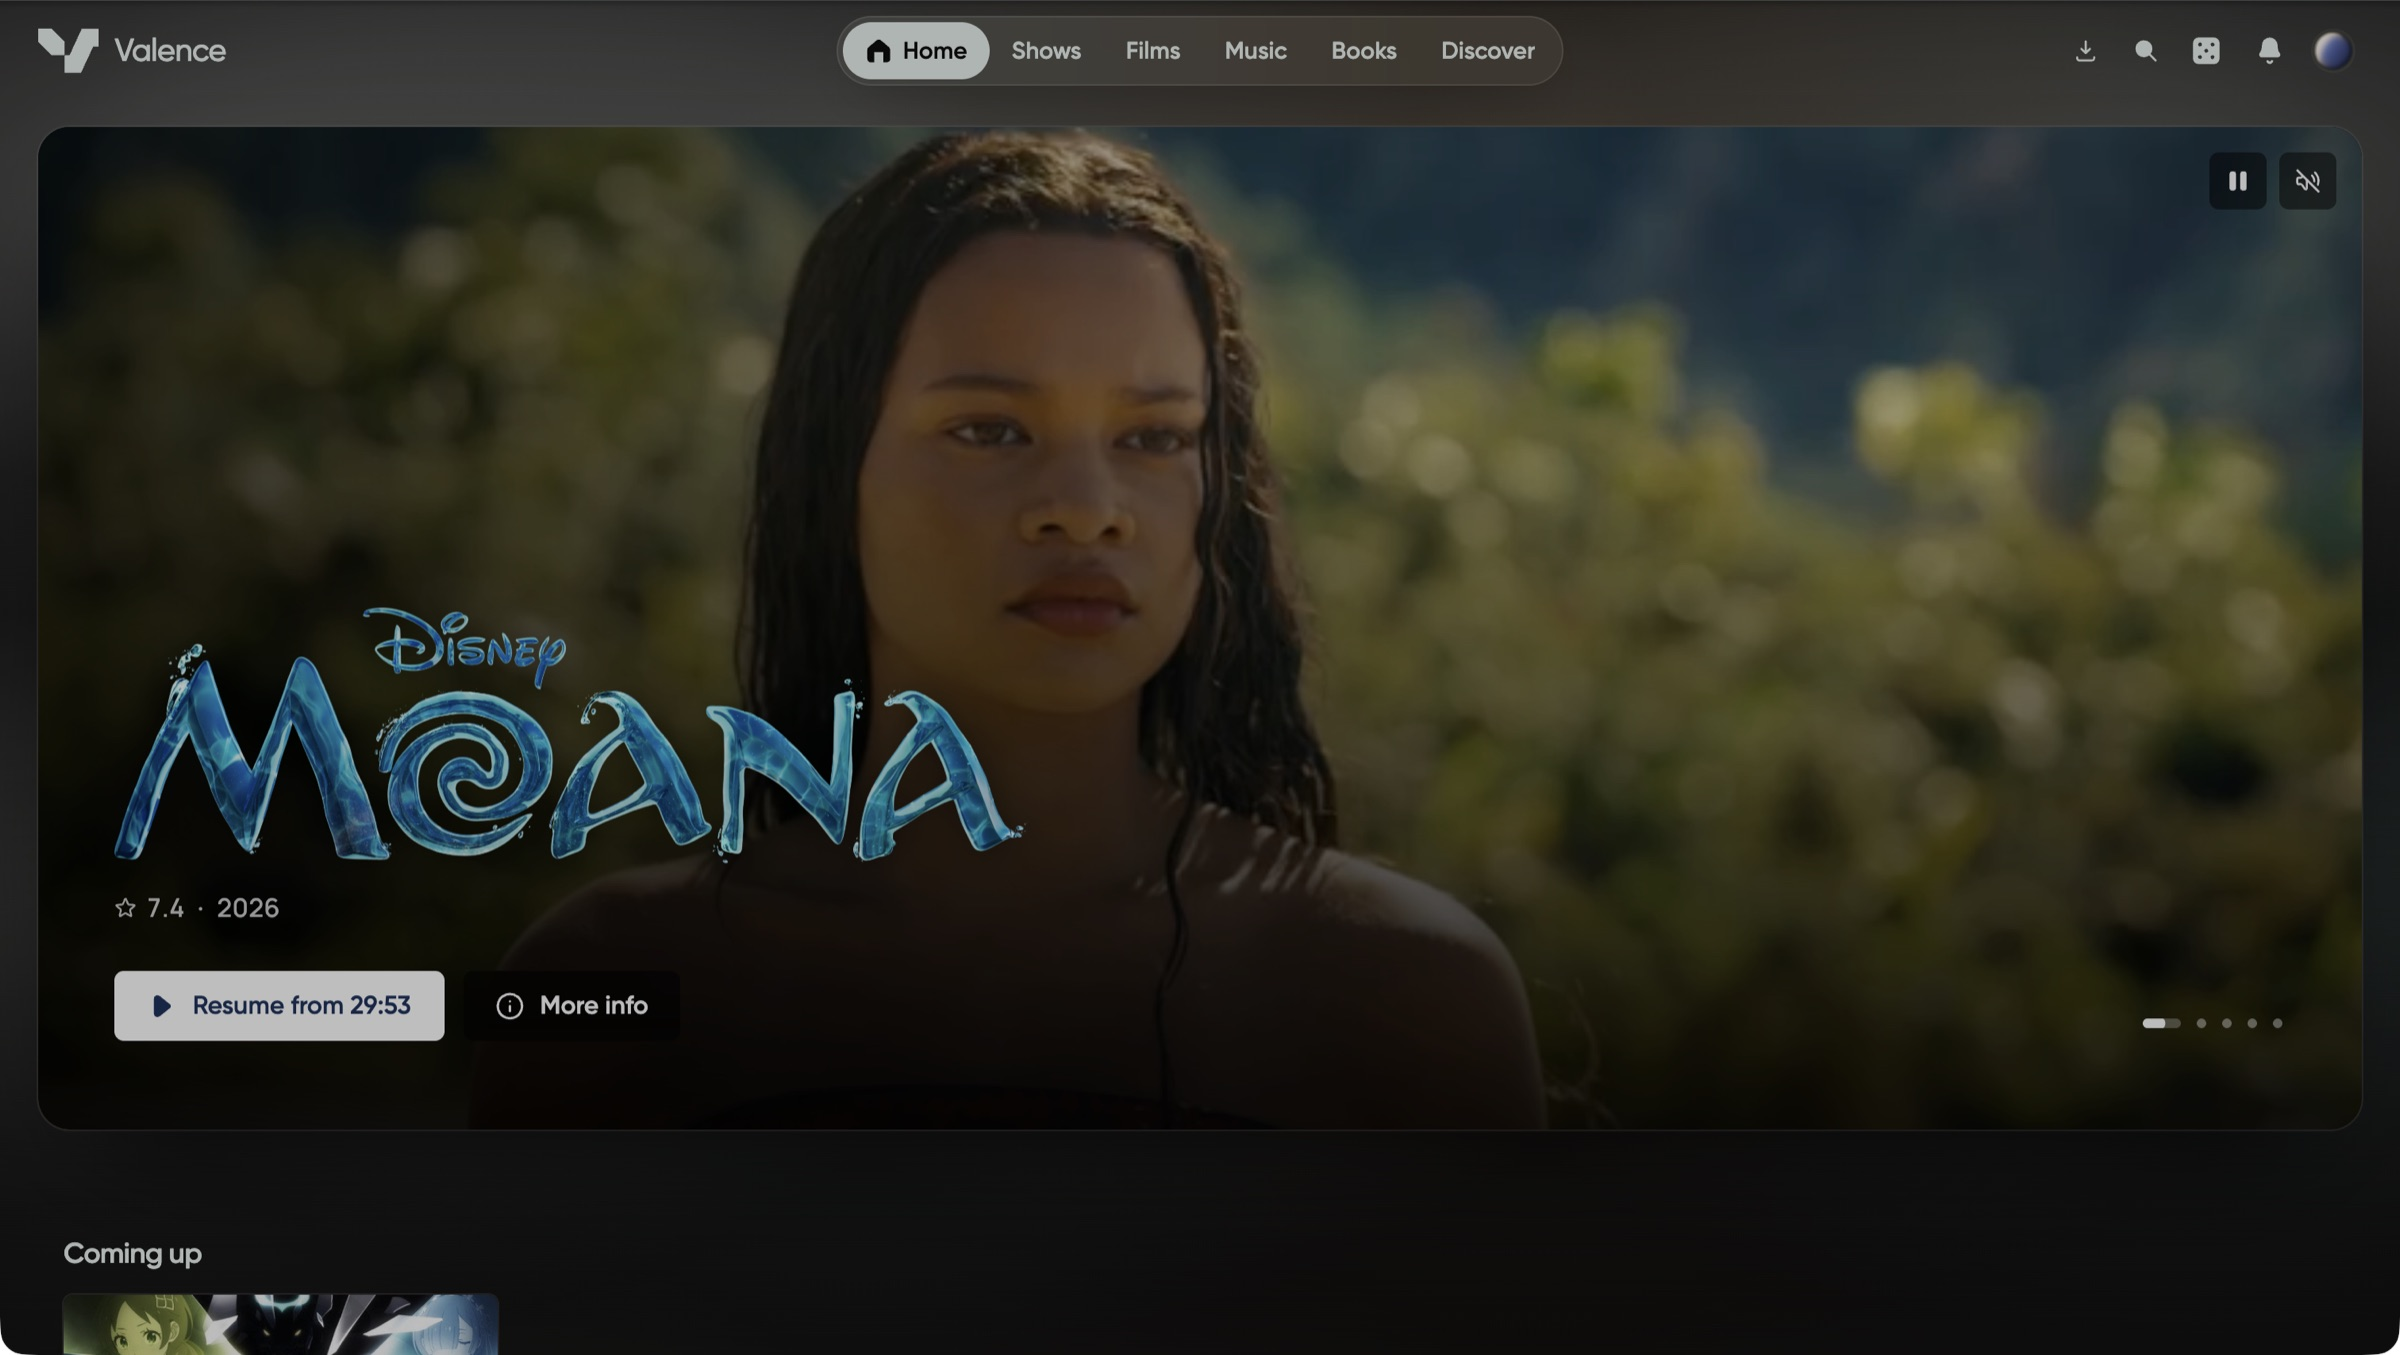
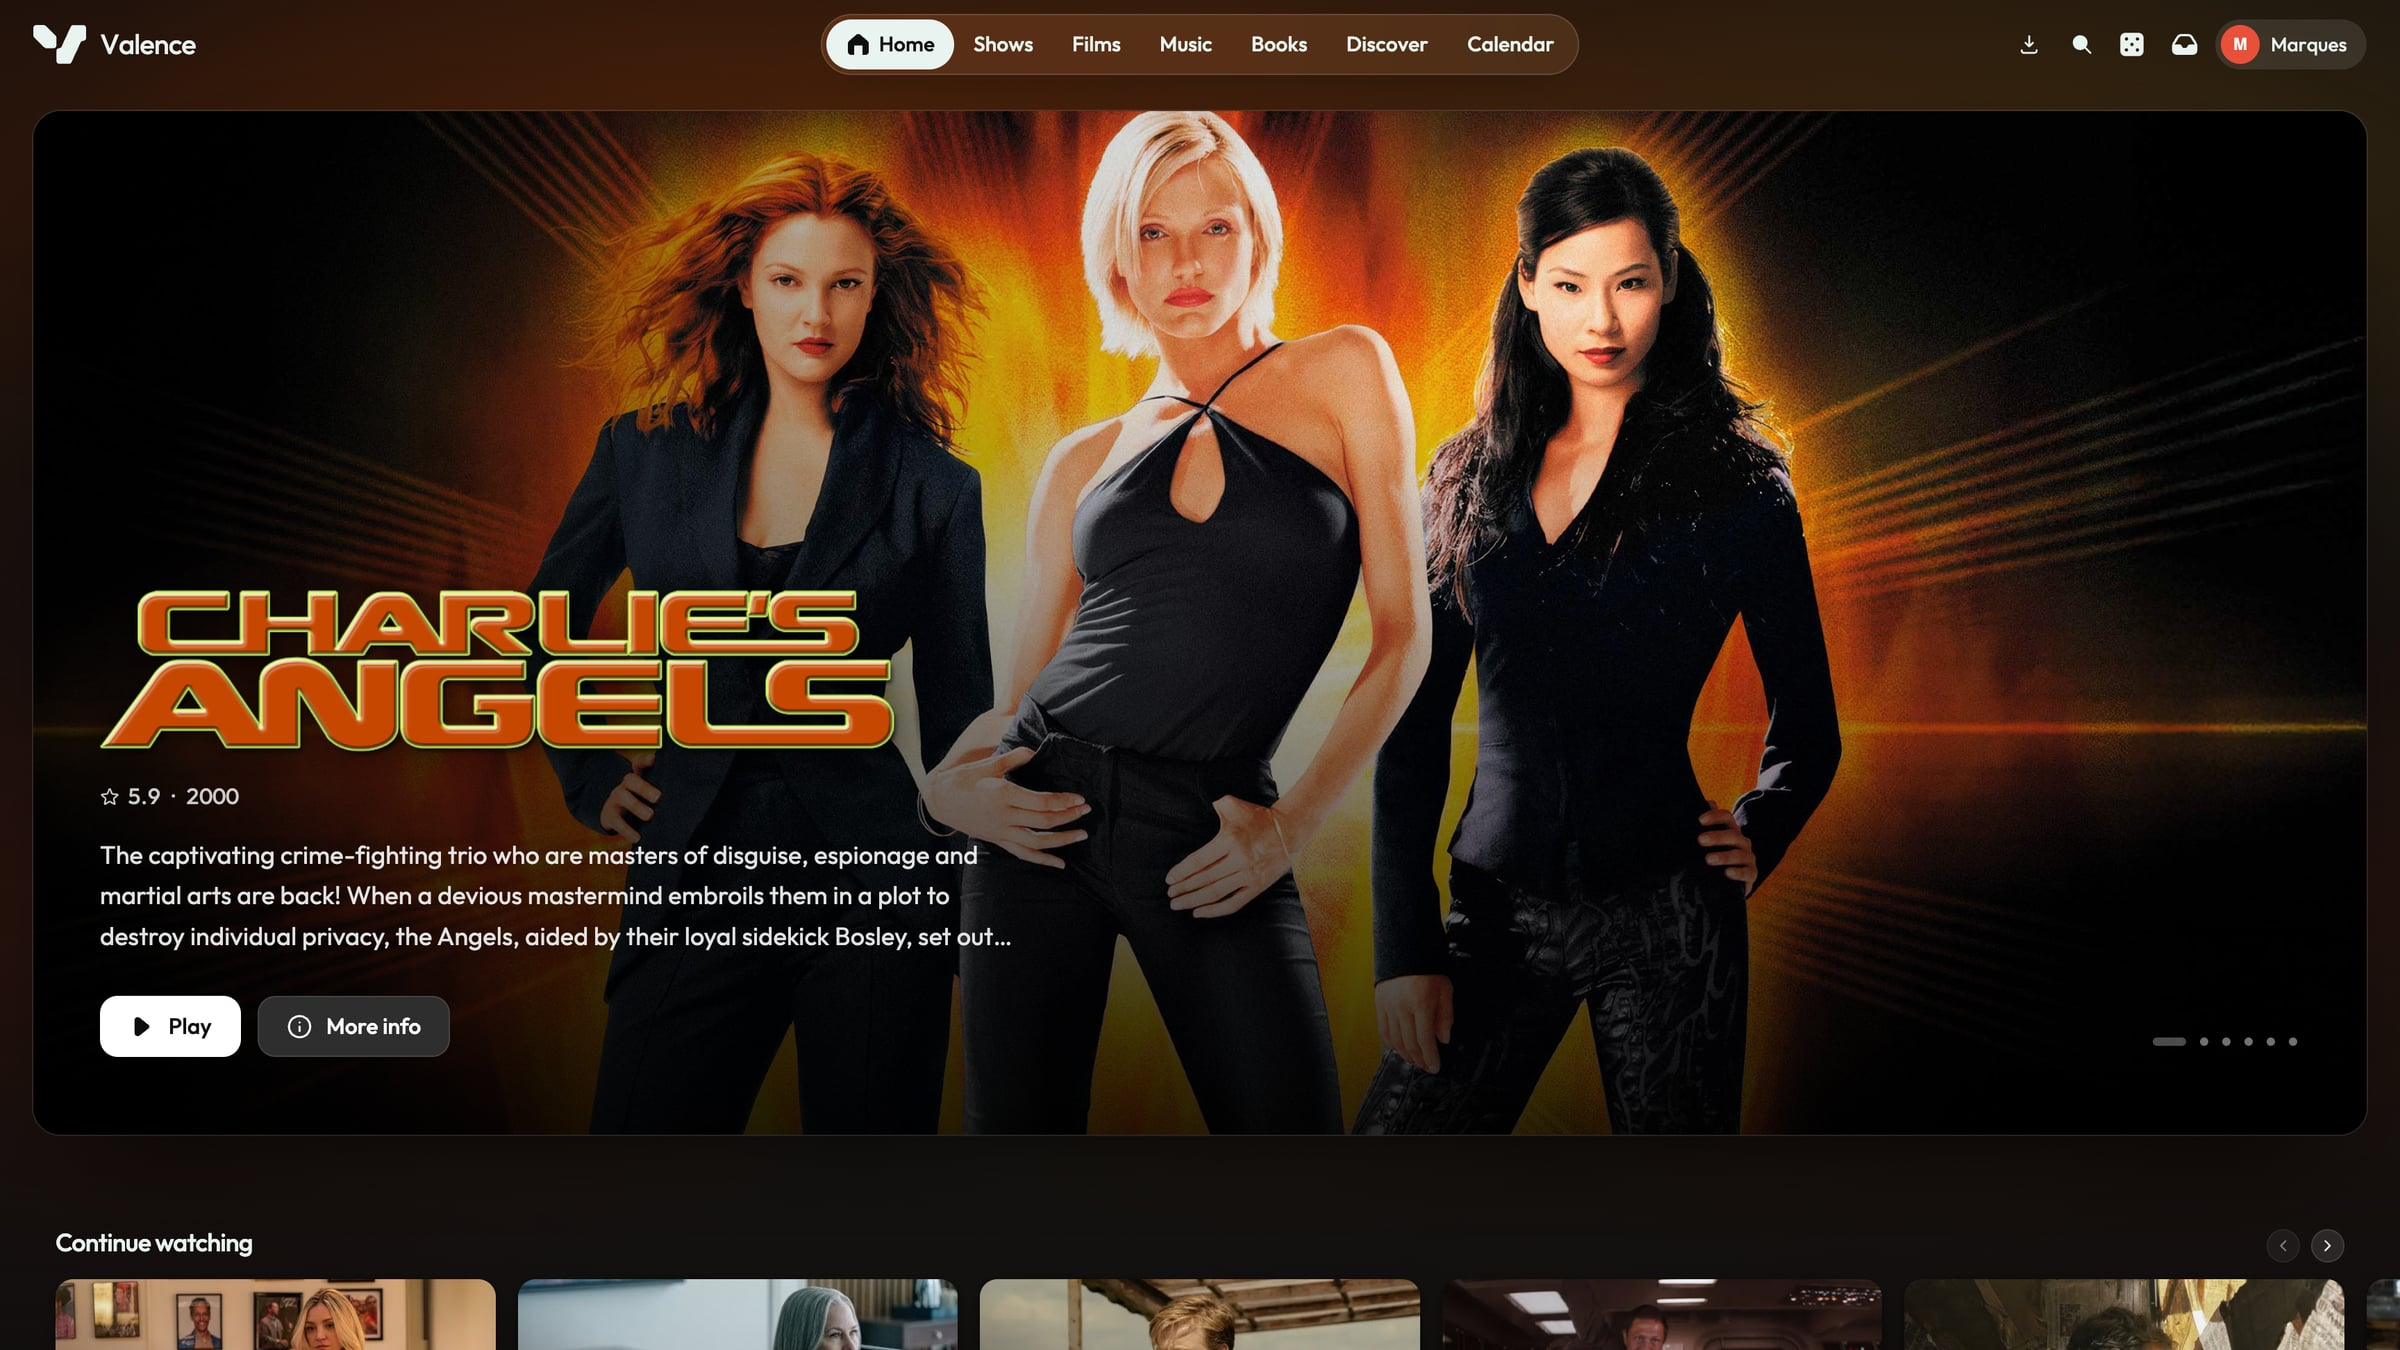
Show every answer on the statistics site, and give a native install its version (#756)
* fix(metrics): show every answer under its own name rather than folding rare ones into Other

* fix(server): a checkout run directly knows its release, rather than calling itself 0.0.0

* docs(metrics): say plainly that a rare answer shows with a count of one

* docs: show the landing page's home screen at the top of the readme

diff --git a/apps/metrics/src/stats/shareOf.ts b/apps/metrics/src/stats/shareOf.ts
@@ -1,8 +1,6 @@
 import type { ShareRow } from './MetricsStats';
 
-const SMALLEST_GROUP = 3;
-
-const OTHER = 'other';
+const FEWEST_SERVERS_SHOWN = 3;
 
 type ShareOptions = {
   counts: ReadonlyMap<string, number>;
@@ -13,46 +11,27 @@ type ShareOptions = {
 };
 
 /**
- * Turns counts of installs into shares of all of them, folding every group smaller than three
- * installs, and any past the limit, into one "Other" row so that no install can be picked out.
+ * Turns counts of installs into shares of all of them, each answer under its own name, keeping only
+ * the biggest where there is a limit.
  *
  * @param options - The counts, how many installs there are in all, how to name a group, the order
  *   to list them in where they have a natural one rather than biggest first, and how many to list.
- * @returns The rows, with "Other" last.
+ * @returns The rows.
  */
-const shareOf = ({ counts, total, labelOf, order, limit }: ShareOptions): ShareRow[] => {
-  const shown: [string, number][] = [];
-  let folded = 0;
-
-  const ranked = [...counts.entries()]
+const shareOf = ({ counts, total, labelOf, order, limit }: ShareOptions): ShareRow[] =>
+  [...counts.entries()]
     .filter(([, installs]) => installs > 0)
     .sort(([aId, a], [bId, b]) =>
       order === undefined
         ? b - a || aId.localeCompare(bId)
         : order.indexOf(aId) - order.indexOf(bId),
-    );
+    )
+    .slice(0, limit ?? Infinity)
+    .map(([id, installs]) => ({
+      id,
+      label: labelOf(id),
+      installs,
+      share: total === 0 ? 0 : installs / total,
+    }));
 
-  for (const [id, installs] of ranked) {
-    if (id === OTHER || installs < SMALLEST_GROUP || shown.length >= (limit ?? Infinity)) {
-      folded += installs;
-    } else {
-      shown.push([id, installs]);
-    }
-  }
-
-  const rows = shown.map(([id, installs]) => ({
-    id,
-    label: labelOf(id),
-    installs,
-    share: total === 0 ? 0 : installs / total,
-  }));
-
-  return folded === 0
-    ? rows
-    : [
-        ...rows,
-        { id: OTHER, label: 'Other', installs: folded, share: total === 0 ? 0 : folded / total },
-      ];
-};
-
-export { SMALLEST_GROUP, shareOf };
+export { FEWEST_SERVERS_SHOWN, shareOf };

diff --git a/apps/server/src/Main.ts b/apps/server/src/Main.ts
@@ -179,6 +179,7 @@ import {
   series,
 } from '#dialect/Schema';
 import { readEnv } from '@ValenceServer/env/Env';
+import { readServerVersion } from '@ValenceServer/env/readServerVersion';
 import { readImportedAccounts } from '@ValenceServer/arrImport/readImportedAccounts';
 import { createDatabaseSettingsStore } from '@ValenceServer/settings/createDatabaseSettingsStore';
 import { createDatabaseLinkStore } from '@ValenceServer/linking/createDatabaseLinkStore';
@@ -536,6 +537,15 @@ const MonitorResourceSampleSchema = z.object({
   }),
 });
 const env = readEnv(process.env);
+
+const SERVER_VERSION = readServerVersion({
+  fromEnvironment: env.VALENCE_VERSION,
+  readManifest: () =>
+    readFileSync(
+      join(import.meta.dirname, '..', '..', '..', '.release-please-manifest.json'),
+      'utf8',
+    ),
+});
 
 checkDialect(env.DATABASE_URL, DIALECT);
 
@@ -1339,7 +1349,7 @@ const telemetry = createTelemetryService({
   settings,
   isHeldOffByEnvironment: isTelemetryHeldOff(env),
   address: env.VALENCE_TELEMETRY_URL,
-  version: env.VALENCE_VERSION,
+  version: SERVER_VERSION,
   host: {
     installMethod: () =>
       detectInstallMethod({
@@ -1371,7 +1381,7 @@ const musicArtwork = createMusicArtwork(musicArtworkDir);
 const AUDIO_DB_FREE_KEY = '123';
 
 const musicWeb = createMusicWeb({
-  userAgent: `Valence/${env.VALENCE_VERSION} ( https://github.com/ValenceOSS/Valence )`,
+  userAgent: `Valence/${SERVER_VERSION} ( https://github.com/ValenceOSS/Valence )`,
   spacingMs: {
     'musicbrainz.org': 1100,
     'coverartarchive.org': 250,
@@ -4910,7 +4920,7 @@ const app = createApp({
   auth,
   settings,
   uploadSessions: createDatabaseUploadSessions(db),
-  version: env.VALENCE_VERSION,
+  version: SERVER_VERSION,
   commit: env.VALENCE_COMMIT,
   demoAccounts: env.DEMO_ACCOUNTS,
   trustedOrigins: trustedOriginsFor({
@@ -4982,7 +4992,7 @@ const app = createApp({
   backups: backupService,
   readLibraryHealth: createLibraryHealthReader(db),
   updates: createUpdateChecker({
-    current: env.VALENCE_VERSION,
+    current: SERVER_VERSION,
     isEnabled: env.CHECK_FOR_UPDATES,
   }),
   webhooks: webhookSubscriptions,

diff --git a/apps/metrics/src/components/AboutPage/AboutPage.tsx b/apps/metrics/src/components/AboutPage/AboutPage.tsx
@@ -59,13 +59,14 @@ const AboutPage = () => (
           </ul>
         </PanelCard>
 
-        <PanelCard title="How a single server stays hidden">
+        <PanelCard title="What is shown">
           <div className="flex flex-col gap-3 text-sm text-text">
             <p>
-              Only totals are ever shown, here or through the JSON the page is drawn from. Any
-              answer fewer than three servers give is folded into “Other”, so an unusual graphics
-              card or a version nobody else runs cannot point to one server. Until three servers
-              have reported, nothing but the count is shown at all.
+              Only totals are ever shown, here or through the JSON the page is drawn from. Every
+              answer is listed under its own name, so a graphics card or a version only one server
+              has shows with a count of one. A report holds nothing that says who runs a server or
+              where it is, so that count cannot be traced back to anybody. Until three servers have
+              reported, nothing but the count is shown at all.
             </p>
             <p>
               A server counts as active while it has reported in the last 30 days. Its latest report

diff --git a/apps/metrics/src/stats/aggregateInstalls.ts b/apps/metrics/src/stats/aggregateInstalls.ts
@@ -8,7 +8,7 @@ import { CORE_BUCKETS, coreBucketOf } from './coreBucketOf';
 import { countsOf } from './countsOf';
 import { cpuVendorOf } from './cpuVendorOf';
 import { labelOf } from './labelOf';
-import { SMALLEST_GROUP, shareOf } from './shareOf';
+import { FEWEST_SERVERS_SHOWN, shareOf } from './shareOf';
 import type { InstallSummary } from './InstallSummary';
 import type { DayCount, LibraryKind, MetricsStats, ShareRow } from './MetricsStats';
 import type { LabelKind } from './labelOf';
@@ -23,14 +23,14 @@ type Aggregated = {
 
 /**
  * Sums up every install that reported in the last thirty days into the figures the page shows,
- * with nothing in any group smaller than three installs.
+ * shown only once at least three servers have reported.
  *
  * @param aggregated - The installs, the trend of how many there were, and when this is.
  * @returns The figures.
  */
 const aggregateInstalls = ({ installs, trend, now }: Aggregated): MetricsStats => {
   const total = installs.length;
-  const isEnoughToShow = total >= SMALLEST_GROUP;
+  const isEnoughToShow = total >= FEWEST_SERVERS_SHOWN;
 
   const share = (
     kind: LabelKind | null,

diff --git a/apps/server/src/env/readServerVersion.test.ts b/apps/server/src/env/readServerVersion.test.ts
@@ -1,0 +1,32 @@
+import { describe, expect, it } from 'vitest';
+import { readServerVersion } from './readServerVersion';
+
+const MANIFEST = () => '{".":"1.7.0"}';
+
+describe('readServerVersion', () => {
+  it('takes the version the image was built with', () => {
+    expect(
+      readServerVersion({ fromEnvironment: '1.8.0-dev.9790d38', readManifest: MANIFEST }),
+    ).toBe('1.8.0-dev.9790d38');
+  });
+
+  it('reads the release manifest where nothing set the version', () => {
+    expect(readServerVersion({ fromEnvironment: '0.0.0', readManifest: MANIFEST })).toBe('1.7.0');
+    expect(readServerVersion({ fromEnvironment: '', readManifest: MANIFEST })).toBe('1.7.0');
+  });
+
+  it('says 0.0.0 where there is no manifest to read', () => {
+    expect(
+      readServerVersion({
+        fromEnvironment: '0.0.0',
+        readManifest: () => {
+          throw new Error('ENOENT');
+        },
+      }),
+    ).toBe('0.0.0');
+  });
+
+  it('says 0.0.0 where the manifest names no release', () => {
+    expect(readServerVersion({ fromEnvironment: '0.0.0', readManifest: () => '{}' })).toBe('0.0.0');
+  });
+});

diff --git a/apps/metrics/src/stats/shareOf.test.ts b/apps/metrics/src/stats/shareOf.test.ts
@@ -20,21 +20,19 @@ describe('shareOf', () => {
     ]);
   });
 
-  it('folds every group of fewer than three installs into Other, last', () => {
+  it('lists a group of one under its own name', () => {
     expect(
       shareOf({
         counts: new Map([
           ['rare', 1],
           ['common', 6],
-          ['other', 1],
-          ['scarce', 2],
         ]),
-        total: 10,
+        total: 7,
         labelOf,
-      }),
+      }).map(({ id, installs }) => [id, installs]),
     ).toStrictEqual([
-      { id: 'common', label: 'COMMON', installs: 6, share: 0.6 },
-      { id: 'other', label: 'Other', installs: 4, share: 0.4 },
+      ['common', 6],
+      ['rare', 1],
     ]);
   });
 
@@ -52,7 +50,7 @@ describe('shareOf', () => {
     ).toStrictEqual(['small', 'large']);
   });
 
-  it('folds whatever is past the limit into Other', () => {
+  it('keeps only the biggest where there is a limit', () => {
     expect(
       shareOf({
         counts: new Map([
@@ -67,7 +65,6 @@ describe('shareOf', () => {
     ).toStrictEqual([
       ['a', 5],
       ['b', 4],
-      ['other', 3],
     ]);
   });
 

diff --git a/apps/metrics/src/stats/aggregateInstalls.test.ts b/apps/metrics/src/stats/aggregateInstalls.test.ts
@@ -77,7 +77,8 @@ describe('aggregateInstalls', () => {
     expect(stats.memory[0]?.label).toBe('16 to 32 GB');
     expect(stats.gpuVendors).toStrictEqual([
       { id: 'nvidia', label: 'NVIDIA', installs: 3, share: 0.75 },
-      { id: 'other', label: 'Other', installs: 2, share: 0.5 },
+      { id: 'intel', label: 'Intel', installs: 1, share: 0.25 },
+      { id: 'none', label: 'No graphics found', installs: 1, share: 0.25 },
     ]);
     expect(stats.gpuModels).toStrictEqual([
       { id: 'NVIDIA GeForce RTX 3060', label: 'NVIDIA GeForce RTX 3060', installs: 3, share: 0.75 },
@@ -91,7 +92,7 @@ describe('aggregateInstalls', () => {
     expect(stats.clients).toStrictEqual([
       { id: 'browser', label: 'A web browser', installs: 3, share: 0.75 },
       { id: 'tv', label: 'A television', installs: 3, share: 0.75 },
-      { id: 'other', label: 'Other', installs: 1, share: 0.25 },
+      { id: 'phone', label: 'A phone', installs: 1, share: 0.25 },
     ]);
     expect(stats.library.films[0]?.label).toBe('100 to 999');
     expect(stats.library.episodes[0]?.label).toBe('1,000 to 9,999');

diff --git a/apps/server/src/env/readServerVersion.ts b/apps/server/src/env/readServerVersion.ts
@@ -1,0 +1,33 @@
+import { z } from 'zod';
+
+const UNKNOWN_VERSION = '0.0.0';
+
+const ManifestSchema = z.object({ '.': z.string().min(1) });
+
+type VersionSources = {
+  fromEnvironment: string;
+  readManifest: () => string;
+};
+
+/**
+ * Says which version this server is: the one its image was built with, or, for a checkout run
+ * directly where nothing set it, the release the checkout's release manifest names.
+ *
+ * @param sources - The version the environment holds, and how to read the release manifest.
+ * @returns The version, or 0.0.0 where neither says.
+ */
+const readServerVersion = ({ fromEnvironment, readManifest }: VersionSources): string => {
+  const given = fromEnvironment.trim();
+
+  if (given !== '' && given !== UNKNOWN_VERSION) {
+    return given;
+  }
+
+  try {
+    return ManifestSchema.parse(JSON.parse(readManifest()))['.'];
+  } catch {
+    return UNKNOWN_VERSION;
+  }
+};
+
+export { readServerVersion };

diff --git a/README.md b/README.md
@@ -26,7 +26,7 @@ Your films, programmes, music and books, on every screen in the house, from a se
 
 <div align="center">
 
-<img src="assets/valence.jpg" alt="The Valence home page: a film playing in the hero with a resume button, above the Coming up row, with Shows, Films, Music, Books and Discover along the top" width="900" />
+<img src="assets/valence.jpg" alt="The Valence home page: Charlie's Angels in the hero with Play and More info, above the Continue watching row, with Shows, Films, Music, Books, Discover and Calendar along the top" width="900" />
 
 </div>
 
